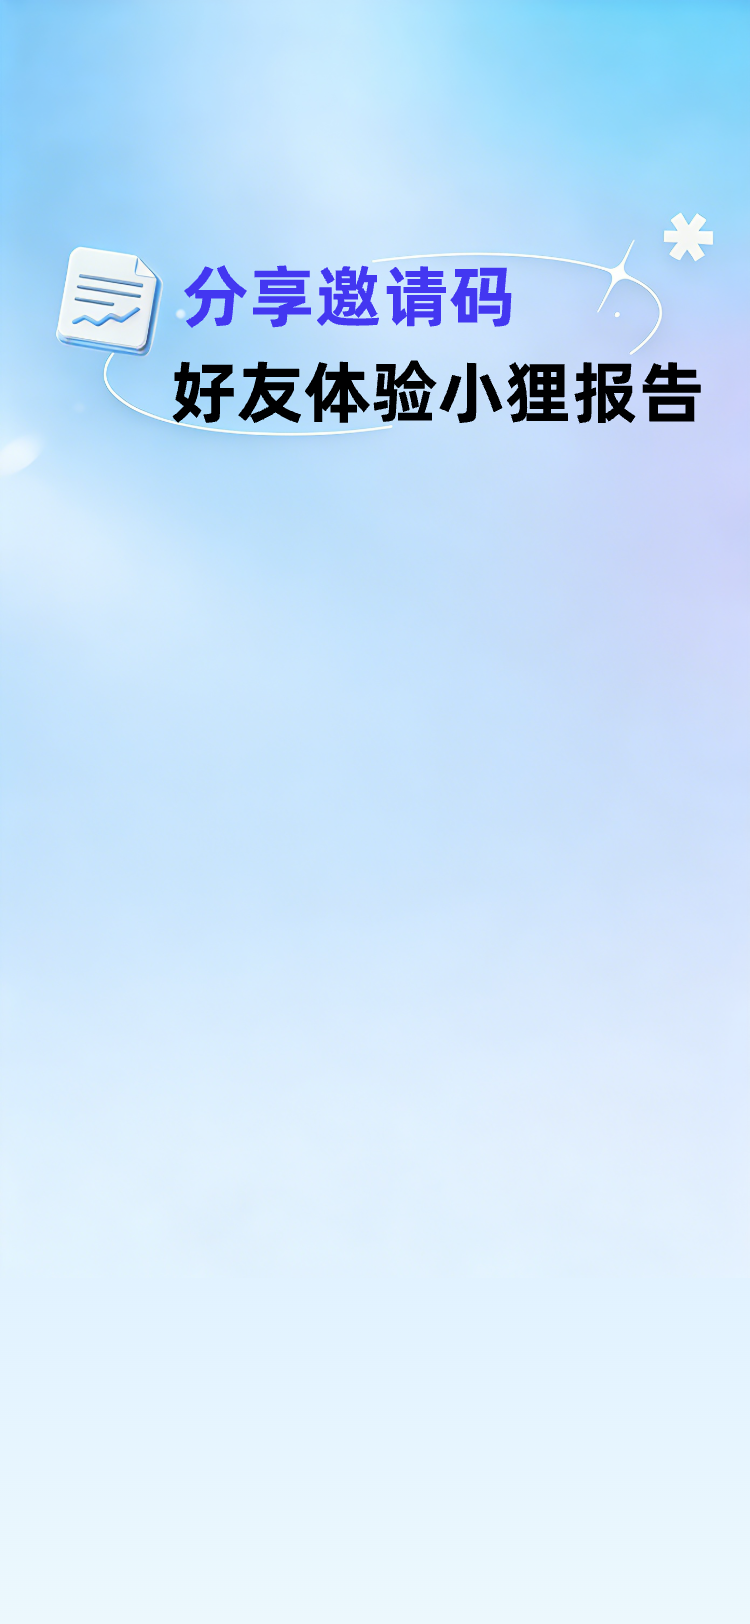
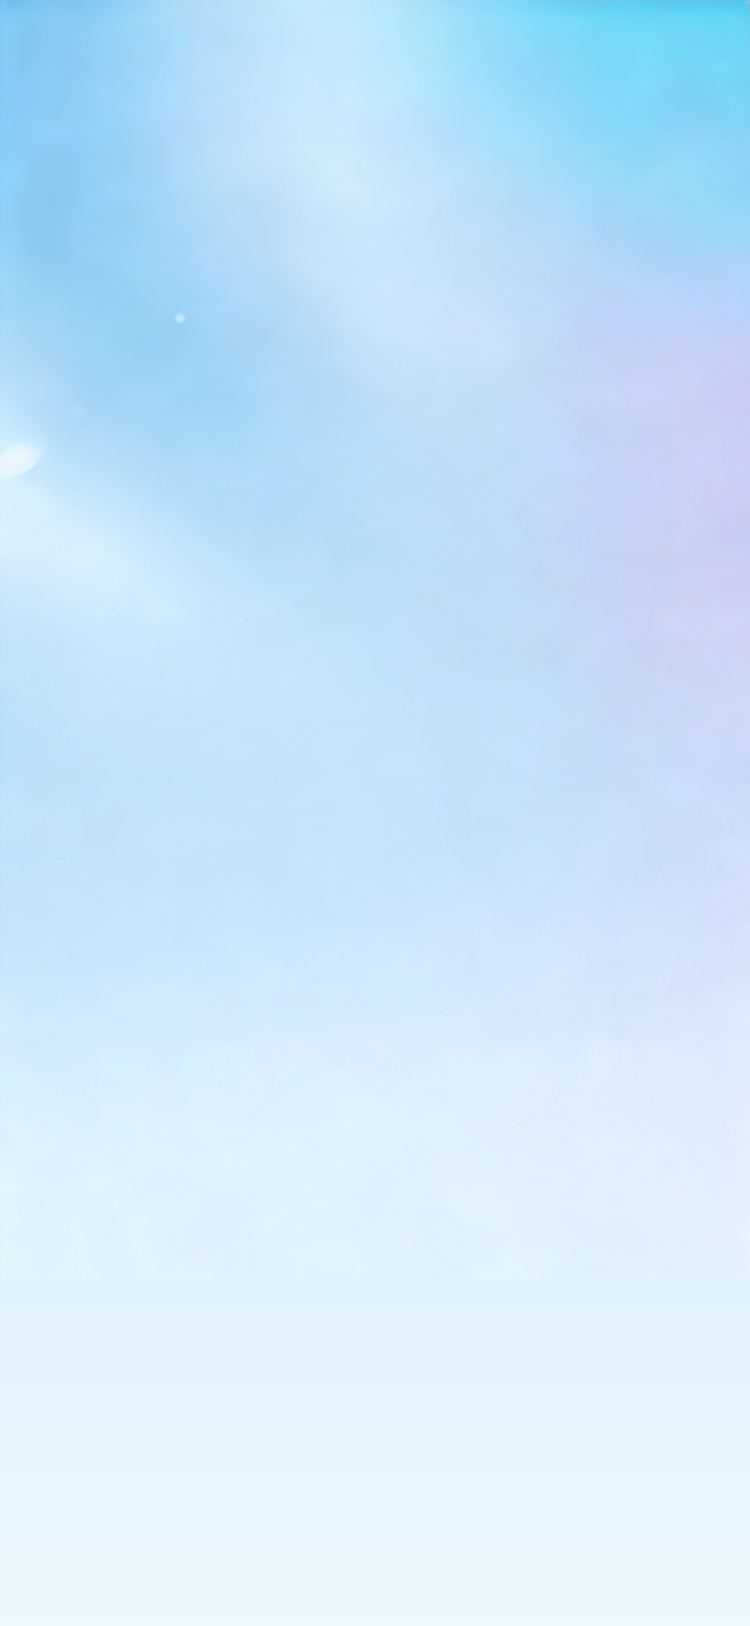
样式问题优化

diff --git a/pages/MaterialUploadPage.tsx b/pages/MaterialUploadPage.tsx
@@ -69,10 +69,12 @@ const MaterialUploadPage: React.FC<MaterialUploadPageProps> = ({
   const [deletingQuestion, setDeletingQuestion] = useState<QuestionInfo | null>(null);
 
   // 新增问题弹框状态
-  // 新增问题弹框状态
   const [questionAddModalVisible, setQuestionAddModalVisible] = useState(false);
   const [newQuestionName, setNewQuestionName] = useState('');
   const [showLimitTips, setShowLimitTips] = useState(false);
+
+  // 分类选择器状态
+  const [showCategoryPicker, setShowCategoryPicker] = useState(false);
 
   // 音频播放弹窗状态
   const [audioModalVisible, setAudioModalVisible] = useState(false);
@@ -550,29 +552,6 @@ const MaterialUploadPage: React.FC<MaterialUploadPageProps> = ({
     Toast.success('刷新成功');
   }, 1000);
 
-  const handleCategoryChangeThrottled = useThrottleFn((e: React.ChangeEvent<HTMLSelectElement>) => {
-    const newCategoryId = e.target.value;
-
-    Dialog.confirm({
-      title: '切换确认',
-      message: '切换模板分类将重置之前新增或修改的问题，是否确认切换？',
-    })
-      .then(() => {
-        setSelectedCategoryId(newCategoryId);
-
-        // 查找对应的分类并更新问题列表
-        const category = templateCategories.find(c => c.id === newCategoryId);
-        if (category) {
-          // FRONTEND RE-INDEXING
-          const reindexed = (category.questionList || []).map((q, i) => ({ ...q, questionIndex: i + 1 }));
-          setQuestions(reindexed);
-        }
-      })
-      .catch(() => {
-        // 取消切换
-      });
-  }, 1000);
-
   const handleQuestionAddThrottled = useThrottleFn(() => {
     setNewQuestionName('');
     setQuestionAddModalVisible(true);
@@ -613,6 +592,34 @@ const MaterialUploadPage: React.FC<MaterialUploadPageProps> = ({
     }
     setQuestionAddModalVisible(false);
   }, 1000);
+
+  const handleCategorySelect = (categoryId: string) => {
+    if (categoryId === selectedCategoryId) {
+      setShowCategoryPicker(false);
+      return;
+    }
+
+    Dialog.confirm({
+      title: '切换确认',
+      message: '切换模板分类将重置之前新增或修改的问题，是否确认切换？',
+      confirmButtonColor: '#4337F1',
+    })
+      .then(() => {
+        setSelectedCategoryId(categoryId);
+        setShowCategoryPicker(false);
+
+        // 查找对应的分类并更新问题列表
+        const category = templateCategories.find(c => c.id === categoryId);
+        if (category) {
+          // FRONTEND RE-INDEXING
+          const reindexed = (category.questionList || []).map((q, i) => ({ ...q, questionIndex: i + 1 }));
+          setQuestions(reindexed);
+        }
+      })
+      .catch(() => {
+        // 取消切换
+      });
+  };
 
   const handleDeleteQuestionConfirmThrottled = useThrottleFn(async () => {
     if (deletingQuestion) {
@@ -1019,26 +1026,21 @@ const MaterialUploadPage: React.FC<MaterialUploadPageProps> = ({
           <div className="flex flex-col h-full p-4 pb-2 overflow-hidden relative">
             {/* Category Selector and Refresh Button */}
             <div className="flex items-center gap-3">
-              {/* Category Dropdown */}
+              {/* Custom Category Picker Trigger */}
               <div className="flex-1 relative">
-                <select
-                  value={selectedCategoryId}
-                  onChange={handleCategoryChangeThrottled}
-                  className="w-full h-12 px-4 pr-10 bg-white text-slate-800 text-sm rounded-xl border border-gray-200 appearance-none focus:outline-none focus:border-indigo-400 focus:ring-2 focus:ring-indigo-100 transition-all"
+                <button
+                  onClick={() => setShowCategoryPicker(true)}
+                  className="w-full h-12 px-4 pr-10 bg-white text-slate-800 text-sm rounded-xl border border-gray-200 flex items-center justify-between active:bg-gray-50 transition-all text-left truncate"
                 >
-                  {templateCategories.length === 0 && <option value="">请选择分类</option>}
-                  {templateCategories.map((category) => (
-                    <option key={category.id} value={category.id}>
-                      {category.templateName}
-                    </option>
-                  ))}
-                </select>
-                {/* Dropdown Arrow */}
-                <div className="absolute right-4 top-1/2 -translate-y-1/2 pointer-events-none">
-                  <svg className="w-4 h-4 text-gray-400" fill="none" stroke="currentColor" viewBox="0 0 24 24">
-                    <path strokeLinecap="round" strokeLinejoin="round" strokeWidth={2} d="M19 9l-7 7-7-7" />
-                  </svg>
-                </div>
+                  <span className="truncate">
+                    {templateCategories.find(c => c.id === selectedCategoryId)?.templateName || '请选择分类'}
+                  </span>
+                  <div className="absolute right-4 top-1/2 -translate-y-1/2 pointer-events-none">
+                    <svg className="w-4 h-4 text-gray-400" fill="none" stroke="currentColor" viewBox="0 0 24 24">
+                      <path strokeLinecap="round" strokeLinejoin="round" strokeWidth={2} d="M19 9l-7 7-7-7" />
+                    </svg>
+                  </div>
+                </button>
               </div>
 
               {/* Refresh Button */}
@@ -1347,6 +1349,44 @@ const MaterialUploadPage: React.FC<MaterialUploadPageProps> = ({
               >
                 确认
               </button>
+            </div>
+          </div>
+        </div>
+      )}
+
+      {/* Category Picker ActionSheet-like Modal */}
+      {showCategoryPicker && (
+        <div className="fixed inset-0 z-[100] flex items-end justify-center">
+          <div
+            className="absolute inset-0 bg-black/50"
+            onClick={() => setShowCategoryPicker(false)}
+          />
+          <div className="relative bg-white w-full rounded-t-[24px] max-h-[70vh] flex flex-col animate-slide-up overflow-hidden pb-8">
+            <div className="p-5 border-b border-gray-50 flex items-center justify-between sticky top-0 bg-white z-10">
+              <span className="text-gray-400 text-sm" onClick={() => setShowCategoryPicker(false)}>取消</span>
+              <span className="text-base font-bold text-slate-800">选择问题集</span>
+              <span className="text-indigo-600 text-sm font-bold" onClick={() => setShowCategoryPicker(false)}>完成</span>
+            </div>
+            <div className="flex-1 overflow-y-auto">
+              <div className="px-2">
+                {templateCategories.map((category) => {
+                  const isSelected = category.id === selectedCategoryId;
+                  return (
+                    <div
+                      key={category.id}
+                      onClick={() => handleCategorySelect(category.id)}
+                      className="flex items-center justify-between py-4 px-4 hover:bg-gray-50 active:bg-gray-100 transition-colors border-b border-gray-50 last:border-b-0"
+                    >
+                      <span className={`text-[16px] flex-1 mr-2 truncate ${isSelected ? 'text-indigo-600 font-bold' : 'text-slate-700'}`}>
+                        {category.templateName}
+                      </span>
+                      <div className={`w-5 h-5 rounded-full border-2 flex items-center justify-center transition-all ${isSelected ? 'border-indigo-600 bg-indigo-600' : 'border-gray-300'}`}>
+                        {isSelected && <div className="w-2 h-2 rounded-full bg-white" />}
+                      </div>
+                    </div>
+                  );
+                })}
+              </div>
             </div>
           </div>
         </div>

diff --git a/pages/InvitationCenterPage.tsx b/pages/InvitationCenterPage.tsx
@@ -138,11 +138,52 @@ const InvitationCenterPage: React.FC<InvitationCenterPageProps> = ({ onBack }) =
         </div>
       </div>
 
-      {/* Top Spacer */}
-      <div className="h-48 flex-shrink-0" />
+      {/* Scrollable Content Wrapper */}
+      <div className="flex-1 w-full overflow-y-auto flex flex-col pt-0">
+        {/* Header - Fixed to top contextually or scrolls with page based on preference. Here making it scroll contextually */}
+      <div 
+        className="pt-14 pb-6 pl-20 pr-8 my-3 flex flex-col items-start relative z-10 w-full whitespace-nowrap"
+        style={{
+          backgroundImage: 'url(/talk-assistant/assets/invitesvg.png)',
+          backgroundSize: '100% 100%',
+          backgroundPosition: 'center',
+          backgroundRepeat: 'no-repeat'
+        }}
+      >
+        <div 
+          style={{
+            fontFamily: "'Alibaba PuHuiTi 2.0', sans-serif",
+            fontSize: '34px',
+            fontWeight: 800,
+            lineHeight: 'normal',
+            letterSpacing: '0em',
+            fontVariationSettings: '"opsz" auto',
+            fontFeatureSettings: '"kern" on',
+            color: '#4337F1',
+          }}
+          className="ml-4"
+        >
+          分享邀请码
+        </div>
+        <div 
+          style={{
+            fontFamily: "'Alibaba PuHuiTi 2.0', sans-serif",
+            fontSize: '34px',
+            fontWeight: 800,
+            lineHeight: 'normal',
+            letterSpacing: '0em',
+            fontVariationSettings: '"opsz" auto',
+            fontFeatureSettings: '"kern" on',
+            color: '#000001',
+          }}
+          className="ml-2"
+        >
+          好友体验小狸报告
+        </div>
+      </div>
 
-      {/* Main Content (Scrollable) */}
-      <div className="flex-1 px-4 pb-2 space-y-4 overflow-y-auto pb-safe relative z-10">
+      {/* Main Content (Scrolls with the rest of the page) */}
+      <div className="px-4 pb-2 space-y-4 pb-safe relative z-10">
         
         {/* Card 1: Share Code */}
         <div className="bg-white rounded-[20px] p-5 shadow-sm space-y-4">
@@ -247,6 +288,7 @@ const InvitationCenterPage: React.FC<InvitationCenterPageProps> = ({ onBack }) =
 
 
 
+      </div>
       </div>
     </div>
   );

diff --git a/pages/DueDiligencePage.tsx b/pages/DueDiligencePage.tsx
@@ -398,8 +398,22 @@ const DueDiligencePage: React.FC<DueDiligencePageProps> = ({
 
   const handleGenerateReportThrottled = useThrottleFn(() => {
     Dialog.confirm({
-      title: '确认生成',
-      message: '重新生成报告将覆盖现有报告，是否继续?',
+      title: (
+        <span style={{ fontFamily: "'PingFang SC', sans-serif", fontSize: '16px', fontWeight: 500, lineHeight: 'normal', letterSpacing: '0em', fontVariationSettings: '"opsz" auto', color: '#242424' }}>
+          确认生成
+        </span>
+      ),
+      message: (
+        <div>
+          <p style={{ fontFamily: "'PingFang SC', sans-serif", fontSize: '14px', fontWeight: 'normal', lineHeight: '22px', textAlign: 'center', letterSpacing: '0em', fontVariationSettings: '"opsz" auto', color: '#595959', marginBottom: '10px' }}>
+            重新生成报告将覆盖现有报告，是否继续?
+          </p>
+          <p style={{ fontSize: '11px', color: '#9CA3AF', lineHeight: '1.5' }}>
+            小狸报告将使用通义千问 AI 技术为您处理音频图像和文件。点击确认即代表您授权我们将相关素材加密传输至 AI 服务商进行内容识别及报告生成
+          </p>
+        </div>
+      ),
+      confirmButtonColor: '#4337F1',
     }).then(async () => {
       if (!currentDeal?.id) {
         Toast.fail('尽调信息不存在');
@@ -778,8 +792,21 @@ const DueDiligencePage: React.FC<DueDiligencePageProps> = ({
                     <button
                       onClick={() => {
                         Dialog.confirm({
-                          title: '确认生成报告?',
-                          message: '系统将根据当前尽调资料、访谈录音和报告模板生成尽调报告（由AI自动生成）',
+                          title: (
+                            <span style={{ fontFamily: "'PingFang SC', sans-serif", fontSize: '16px', fontWeight: 500, lineHeight: 'normal', letterSpacing: '0em', fontVariationSettings: '"opsz" auto', color: '#242424' }}>
+                              确认生成报告?
+                            </span>
+                          ),
+                          message: (
+                            <div>
+                              <p style={{ fontFamily: "'PingFang SC', sans-serif", fontSize: '14px', fontWeight: 'normal', lineHeight: '22px', textAlign: 'center', letterSpacing: '0em', fontVariationSettings: '"opsz" auto', color: '#595959', marginBottom: '10px' }}>
+                                系统将根据当前尽调资料、访谈录音和报告模板生成尽调报告（由AI自动生成）
+                              </p>
+                              <p style={{ fontSize: '11px', color: '#9CA3AF', lineHeight: '1.5' }}>
+                                小狸报告将使用通义千问 AI 技术为您处理音频图像和文件。点击确认即代表您授权我们将相关素材加密传输至 AI 服务商进行内容识别及报告生成
+                              </p>
+                            </div>
+                          ),
                           confirmButtonText: '确认',
                           cancelButtonText: '取消',
                           confirmButtonColor: '#4337F1',

diff --git a/pages/MaterialsListPage.tsx b/pages/MaterialsListPage.tsx
@@ -412,10 +412,23 @@ const MaterialsListPage: React.FC<MaterialsListPageProps> = ({
     const isRegenerate = localReportStatus === DealReportStatusEnum.REPORT_GENERATED;
     
     Dialog.confirm({
-      title: isRegenerate ? '确认重新生成报告？' : '确认立即生成报告？',
-      message: isRegenerate 
-        ? '是否确认根据当前尽调资料和访谈录音重新生成报告？原有报告内容将被覆盖'
-        : '系统将根据当前尽调资料、访谈录音和报告模板生成尽调报告',
+      title: (
+        <span style={{ fontFamily: "'PingFang SC', sans-serif", fontSize: '16px', fontWeight: 500, lineHeight: 'normal', letterSpacing: '0em', fontVariationSettings: '"opsz" auto', color: '#242424' }}>
+          {isRegenerate ? '确认重新生成报告？' : '确认立即生成报告？'}
+        </span>
+      ),
+      message: (
+        <div>
+          <p style={{ fontFamily: "'PingFang SC', sans-serif", fontSize: '14px', fontWeight: 'normal', lineHeight: '22px', textAlign: 'center', letterSpacing: '0em', fontVariationSettings: '"opsz" auto', color: '#595959', marginBottom: '10px' }}>
+            {isRegenerate
+              ? '是否确认根据当前尽调资料和访谈录音重新生成报告？原有报告内容将被覆盖'
+              : '系统将根据当前尽调资料、访谈录音和报告模板生成尽调报告（由AI自动生成）'}
+          </p>
+          <p style={{ fontSize: '11px', color: '#9CA3AF', lineHeight: '1.5' }}>
+            小狸报告将使用通义千问 AI 技术为您处理音频图像和文件。点击确认即代表您授权我们将相关素材加密传输至 AI 服务商进行内容识别及报告生成
+          </p>
+        </div>
+      ),
       confirmButtonText: '确认',
       cancelButtonText: '取消',
       confirmButtonColor: '#4337F1',

diff --git a/pages/PrivacyPolicyPage.tsx b/pages/PrivacyPolicyPage.tsx
@@ -20,7 +20,7 @@ const PrivacyPolicyPage: React.FC<PrivacyPolicyPageProps> = ({ onBack }) => {
       </div>
 
       {/* Content */}
-      <div className="flex-1 overflow-y-auto px-5 py-6 text-slate-800 pb-10">
+      <div className="flex-1 overflow-y-auto px-5 py-6 text-slate-800 pb-[100px] mb-safe">
            <div className="mb-6 text-sm text-gray-500">
              <p>本版本发布日期：2026年1月28日</p>
              <p>生效日期：2026年1月28日</p>

diff --git a/pages/UploadTemplatePage.tsx b/pages/UploadTemplatePage.tsx
@@ -283,7 +283,7 @@ const UploadTemplatePage: React.FC<UploadTemplatePageProps> = ({
                   <p className="text-xs text-gray-500">点击重新选择</p>
                 </div>
               ) : (
-                <p className="text-sm text-gray-400">请上传模板附件</p>
+                <p className="text-sm text-gray-400">请上传.doc/.docx格式的模板附件</p>
               )}
             </div>
         </div>

diff --git a/pages/UserAgreementPage.tsx b/pages/UserAgreementPage.tsx
@@ -20,7 +20,7 @@ const UserAgreementPage: React.FC<UserAgreementPageProps> = ({ onBack }) => {
       </div>
 
       {/* Content */}
-      <div className="flex-1 overflow-y-auto px-5 py-6 text-slate-800 pb-10">
+      <div className="flex-1 overflow-y-auto px-5 py-6 text-slate-800 pb-[100px] mb-safe">
            <h2 className="text-xl font-bold mb-4">1. 引言</h2>
            <p className="text-[15px] leading-relaxed mb-6 text-justify text-slate-600">
              欢迎使用北京零壹视界科技有限公司提供的服务（以下简称“本服务”）。请在使用前仔细阅读并理解本《用户协议》（以下简称“本协议”）的所有条款。一旦您开始使用本服务，即视为您已充分理解并同意接受本协议所有条款。